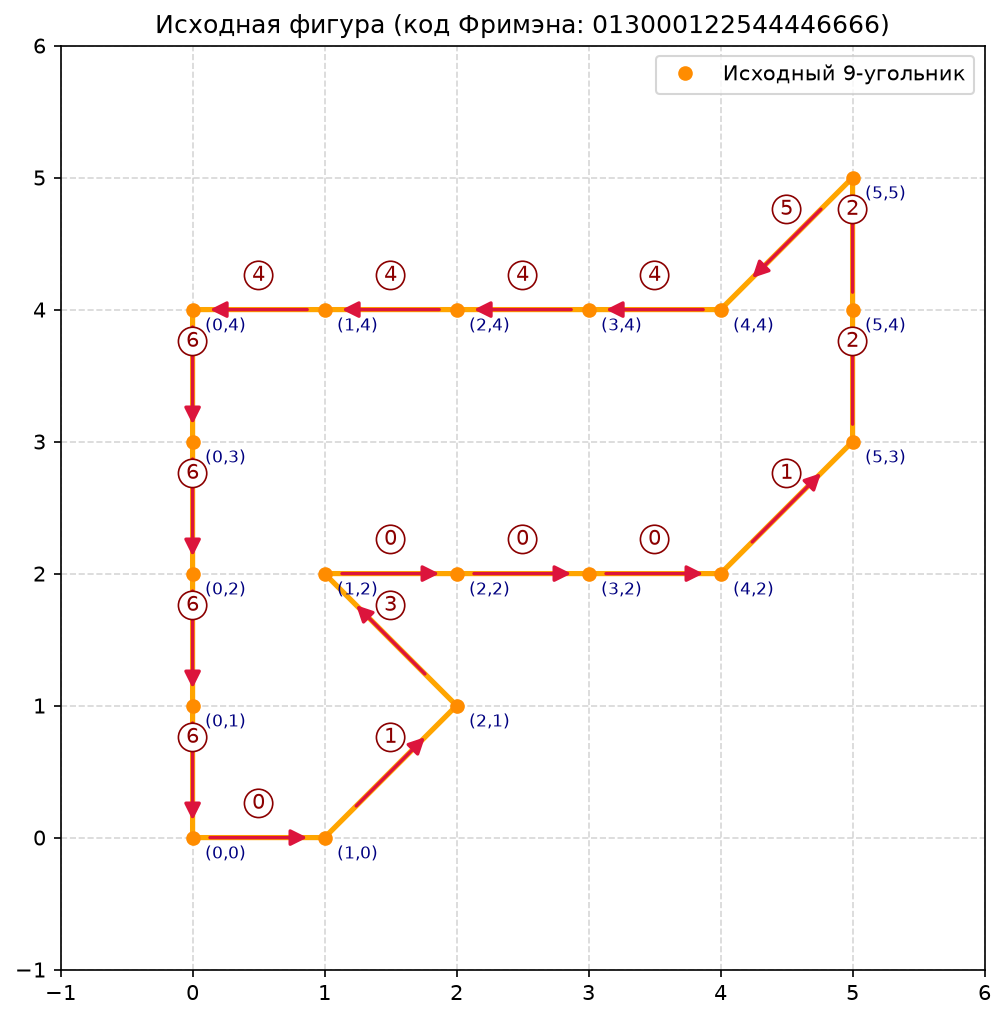
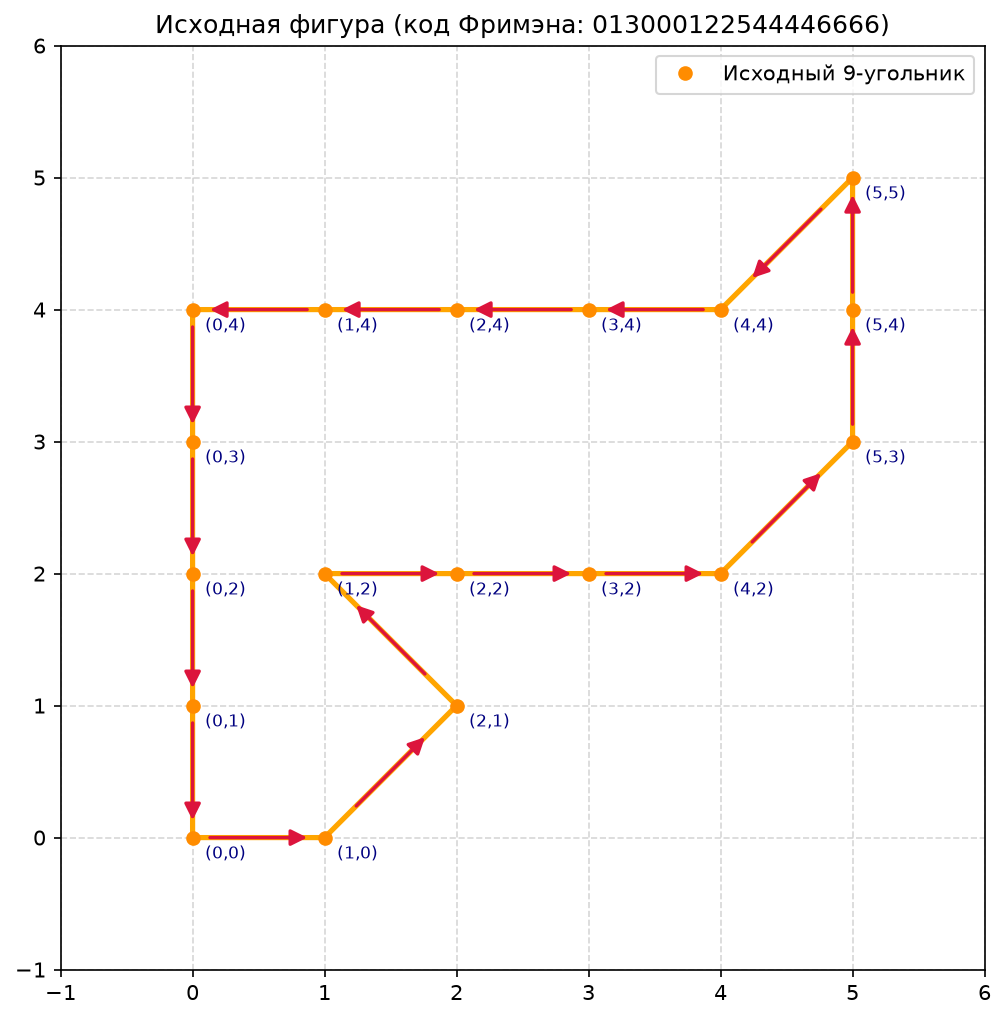
кандидат на финал

diff --git a/lab1/main.py b/lab1/main.py
@@ -7,26 +7,23 @@
 используя отражение относительно оси X. Показать преобразования
 пошагово и комплексно.
 
-=== ТЕОРИЯ (сжато) ===
-Код Фримэна. Примитив описывается цепочкой элементарных векторов по 8
-направлениям. Направление i = i*45°, i = 0..7. Длина вектора
-D = T*(sqrt(2))^p, p = i mod 2. При T=1 чётные направления дают
-(±1,0)/(0,±1), нечётные — (±1,±1).
+=== ТЕОРИЯ ===
+Код Фримэна: цепочка единичных векторов по 8 направлениям.
+Направление i = i*45°, i = 0..7. Длина D = T*(sqrt(2))^p, p = i mod 2.
+При T=1 чётные дают (±1,0)/(0,±1), нечётные — (±1,±1).
 
-Однородные координаты. Точка P(X, Y, W), W != 0. Декартовы:
-x = X/W, y = Y/W. При W=1: P(x, y, 1). Зачем: в декартовых 2x2 нельзя
-одной матрицей описать перенос, а в однородных 3x3 — можно.
+Однородные координаты: P(X, Y, W), W != 0. x = X/W, y = Y/W.
+При W=1: P(x, y, 1). Позволяют одной матрицей 3x3 описать все
+аффинные преобразования, включая перенос.
 
-Аффинное преобразование в однородных координатах: p' = M @ p,
-где M — матрица 3x3, p = [x, y, 1]^T.
+Аффинное преобразование: p' = M @ p, M — 3x3, p = [x, y, 1]^T.
 
-Композиция. Сначала M1, потом M2: p' = M2 @ M1 @ p. Порядок важен.
+Композиция: сначала M1, потом M2 → p' = M2 @ M1 @ p. Порядок важен.
 
-Смена системы координат. Чтобы выполнить операцию относительно
-произвольной точки/прямой, переходим в удобную систему (точка — начало,
-прямая — ось X), делаем простое преобразование, возвращаемся обратно.
-Именно так строятся rotation_about_point, scaling_about_point и
-reflection_about_line.
+Смена системы координат: чтобы выполнить операцию относительно
+произвольной точки/прямой, переходим в удобную систему, делаем
+простое преобразование, возвращаемся. Так строятся
+rotation_about_point, scaling_about_point, reflection_about_line.
 """
 
 import math
@@ -57,7 +54,8 @@ FREEMAN_STEPS = {
 
 
 def decode_freeman(code):
-    """Декодирует код Фримэна в список вершин (x, y) без дублирующей точки."""
+    """Декодирует код Фримэна в список вершин (x, y). Возвращает
+    список без дублирующей последней точки (замкнутый контур)."""
     x, y = 0, 0
     points = [(x, y)]
     for ch in code:
@@ -65,7 +63,7 @@ def decode_freeman(code):
         x += dx
         y += dy
         points.append((x, y))
-    return points[:-1]                         # убираем дубликат старта
+    return points[:-1]                          # убираем дубликат старта
 
 
 # =============================================================
@@ -73,7 +71,7 @@ def decode_freeman(code):
 # =============================================================
 
 def points_to_homogeneous(points):
-    """Превращает список (x, y) в Nx3 массив [[x, y, 1], ...]."""
+    """Список (x, y) → Nx3 массив [[x, y, 1], ...]."""
     return np.array([[x, y, 1.0] for (x, y) in points])
 
 
@@ -82,20 +80,20 @@ def apply_matrix(M, points):
     P = points_to_homogeneous(points)
     P_new = P @ M.T
     W = P_new[:, 2:3].copy()
-    W[W == 0] = 1.0                            # защита от деления на 0
+    W[W == 0] = 1.0                             # защита от деления на 0
     xy = P_new[:, :2] / W
     return [tuple(p) for p in xy]
 
 
 # =============================================================
-# ЧАСТЬ 3. ЭЛЕМЕНТАРНЫЕ АФФИННЫЕ ПРЕОБРАЗОВАНИЯ (2D)
+# ЧАСТЬ 3. ЭЛЕМЕНТАРНЫЕ АФФИННЫЕ ПРЕОБРАЗОВАНИЯ
 # =============================================================
 # Все матрицы выписаны вручную. Формат — вектор-столбец p = [x, y, 1]^T.
 
 def translation(tx, ty):
     """Перенос на (tx, ty).
-    | 1  0  tx |     Последовательные переносы аддитивны:
-    | 0  1  ty |     T(a) @ T(b) = T(a+b).
+    | 1  0  tx |  Последовательные переносы аддитивны:
+    | 0  1  ty |  T(a) @ T(b) = T(a+b).
     | 0  0   1 |"""
     return np.array([[1.0, 0.0, float(tx)],
                      [0.0, 1.0, float(ty)],
@@ -104,7 +102,7 @@ def translation(tx, ty):
 
 def scaling(sx, sy):
     """Масштабирование (sx, sy). При sx=sy — однородное.
-    | sx  0  0 |     Последовательные масштабирования мультипликативны.
+    | sx  0  0 |  Последовательные масштабирования мультипликативны.
     |  0 sy  0 |
     |  0  0  1 |"""
     return np.array([[float(sx), 0.0,       0.0],
@@ -113,9 +111,9 @@ def scaling(sx, sy):
 
 
 def rotation(theta):
-    """Поворот на theta (радианы, против часовой) вокруг начала координат.
-    | cos -sin  0 |   Отрицательный поворот — транспонированная матрица
-    | sin  cos  0 |   положительного. Два поворота аддитивны.
+    """Поворот на theta (радианы, против часовой) вокруг начала.
+    | cos -sin  0 |  Отрицательный поворот — транспонированная матрица
+    | sin  cos  0 |  положительного. Два поворота аддитивны.
     |  0    0   1 |"""
     c, s = math.cos(theta), math.sin(theta)
     return np.array([[c, -s, 0.0],
@@ -124,14 +122,14 @@ def rotation(theta):
 
 
 def reflection_x():
-    """Отражение относительно оси X (y → -y)."""
+    """Отражение относительно оси X."""
     return np.array([[1.0,  0.0, 0.0],
                      [0.0, -1.0, 0.0],
                      [0.0,  0.0, 1.0]])
 
 
 def reflection_y():
-    """Отражение относительно оси Y (x → -x)."""
+    """Отражение относительно оси Y."""
     return np.array([[-1.0, 0.0, 0.0],
                      [ 0.0, 1.0, 0.0],
                      [ 0.0, 0.0, 1.0]])
@@ -161,7 +159,7 @@ def reflection_y_eq_minus_x():
 # =============================================================
 # ЧАСТЬ 4. КОМПОЗИТНЫЕ ПРЕОБРАЗОВАНИЯ (СМЕНА СИСТЕМЫ КООРДИНАТ)
 # =============================================================
-# Идея: M = T(в удобную систему) @ (простое преобразование) @ T(обратно).
+# M = T(в удобную систему) @ (простое преобразование) @ T(обратно).
 
 def rotation_about_point(px, py, theta):
     """Поворот на theta вокруг точки (px, py):
@@ -176,13 +174,12 @@ def scaling_about_point(px, py, sx, sy):
 
 
 def reflection_about_line(k, b):
-    """Отражение относительно прямой y = k*x + b — 5 шагов из лекции:
-      1) T(0, -b)    — сдвиг прямой к началу координат по Y
-      2) R(-alpha)   — поворот, чтобы прямая совпала с осью X
-      3) Rx          — отражение относительно оси X
-      4) R(alpha)    — обратный поворот
-      5) T(0, b)     — обратный сдвиг
-    где alpha = atan(k)."""
+    """Отражение относительно y = kx + b — 5 шагов из лекции:
+      1) T(0, -b)   — сдвиг прямой к началу координат по Y
+      2) R(-alpha)  — поворот, чтобы прямая совпала с осью X
+      3) Rx         — отражение относительно оси X
+      4) R(alpha)   — обратный поворот
+      5) T(0, b)    — обратный сдвиг, alpha = atan(k)."""
     alpha = math.atan(k)
     return (translation(0, b) @ rotation(alpha) @ reflection_x()
             @ rotation(-alpha) @ translation(0, -b))
@@ -193,11 +190,18 @@ def reflection_about_line(k, b):
 # =============================================================
 
 def compute_bounds(polygons, pad=1.5):
-    """Габариты по всем полигонам: (x_lo, x_hi, y_lo, y_hi).
-    Используется, чтобы задать xlim/ylim и обрезать прямую по краям."""
+    """Габариты по всем полигонам: (x_lo, x_hi, y_lo, y_hi)."""
     xs = [p[0] for poly in polygons for p in poly]
     ys = [p[1] for poly in polygons for p in poly]
     return (min(xs) - pad, max(xs) + pad, min(ys) - pad, max(ys) + pad)
+
+
+def set_unit_grid(ax):
+    """Ставит деления каждые 1 единицу (масштаб клетки = 1)."""
+    x_lo, x_hi = ax.get_xlim()
+    y_lo, y_hi = ax.get_ylim()
+    ax.set_xticks(range(int(math.floor(x_lo)), int(math.ceil(x_hi)) + 1))
+    ax.set_yticks(range(int(math.floor(y_lo)), int(math.ceil(y_hi)) + 1))
 
 
 def plot_polygon(ax, points, label, color, linestyle='-'):
@@ -209,8 +213,7 @@ def plot_polygon(ax, points, label, color, linestyle='-'):
 
 
 def draw_freeman(ax, points, code):
-    """Рисует исходную фигуру в стиле образца: жирный оранжевый контур,
-    стрелки на середине каждого ребра, цифры кода и координаты вершин."""
+    """Рисует исходную фигуру со стрелками по рёбрам и координатами вершин."""
     n = len(points)
     xs = [p[0] for p in points] + [points[0][0]]
     ys = [p[1] for p in points] + [points[0][1]]
@@ -219,7 +222,7 @@ def draw_freeman(ax, points, code):
             'o', color='darkorange', markersize=6, zorder=3,
             label='Исходный 9-угольник')
 
-    # Стрелки на середине каждого ребра — по направлению обхода
+    # Стрелки в середине каждого ребра
     for i in range(n):
         x1, y1 = points[i]
         x2, y2 = points[(i + 1) % n]
@@ -236,46 +239,34 @@ def draw_freeman(ax, points, code):
                                     lw=1.6, mutation_scale=16),
                     zorder=4)
 
-    # Цифры кода рядом с серединой каждого ребра
-    for i, ch in enumerate(code):
-        x1, y1 = points[i]
-        x2, y2 = points[(i + 1) % n]
-        mx, my = (x1 + x2) / 2, (y1 + y2) / 2
-        ax.text(mx, my + 0.18, ch, fontsize=10, color='darkred',
-                ha='center', va='bottom', zorder=5,
-                bbox=dict(boxstyle='circle,pad=0.18',
-                          facecolor='white', edgecolor='darkred', lw=0.8))
-
-    # Координаты вершин
+    # Подписи координат вершин
     for (x, y) in points:
         ax.annotate(f'({int(x)},{int(y)})', (x, y),
                     textcoords='offset points', xytext=(6, -10),
                     fontsize=8, color='navy')
 
-    # Габариты исходной фигуры + отступ
     x_lo, x_hi, y_lo, y_hi = compute_bounds([points], pad=1.0)
     ax.set_xlim(x_lo, x_hi)
     ax.set_ylim(y_lo, y_hi)
+    set_unit_grid(ax)
     ax.grid(True, linestyle='--', alpha=0.5)
     ax.set_aspect('equal')
     ax.set_title(f"Исходная фигура (код Фримэна: {code})")
     ax.legend(loc='upper right')
 
 
-def draw_line_y_eq_kx_b(ax, k, b, label=None):
-    """Рисует прямую y = kx + b по текущим границам осей.
-    Т.к. xlim/ylim уже заданы, отрезок прямой автоматически обрежется
-    matplotlib'ом по краям области — не нужно считать диапазон самим."""
+def draw_line_y_eq_kx_b(ax, k, b):
+    """Прямая y = kx + b по текущим границам осей. matplotlib сам
+    обрежет её по краям — xlim/ylim уже должны быть заданы."""
     x_lo, x_hi = ax.get_xlim()
     ax.plot([x_lo, x_hi],
             [k * x_lo + b, k * x_hi + b],
             '--', color='magenta', linewidth=1.5,
-            label=label or f'y = {k}x + {b}',
-            zorder=1)
+            label=f'y = {k}x + {b}', zorder=1)
 
 
 def matrix_to_text(name, M):
-    """Красивая текстовая запись матрицы 3x3 для вывода на графике."""
+    """Текстовая запись матрицы 3x3 для вывода на графике."""
     lines = [name + " ="]
     for row in M:
         lines.append("[ " + "  ".join(f"{v:8.4f}" for v in row) + " ]")
@@ -288,7 +279,7 @@ def matrix_to_text(name, M):
 
 def process_figure(fig_name, code, output_dir, ty=5, k=3, b=10):
     """Строит 3 картинки для одной фигуры и сохраняет их в output_dir."""
-    # 1) Декодируем исходные вершины
+    # 1) Декодируем вершины
     points = decode_freeman(code)
 
     # 2) Строим нужные матрицы
@@ -303,73 +294,66 @@ def process_figure(fig_name, code, output_dir, ty=5, k=3, b=10):
     R_pos  = rotation(math.atan(k))
     T_posb = translation(0, b)
 
-    # 3) Пошаговые результаты
-    p1 = apply_matrix(T_y,    points)           # после переноса
-    p2 = apply_matrix(T_negb, p1)               # шаг 1
-    p3 = apply_matrix(R_neg,  p2)               # шаг 2
-    p4 = apply_matrix(Rx,     p3)               # шаг 3
-    p5 = apply_matrix(R_pos,  p4)               # шаг 4
-    p6 = apply_matrix(T_posb, p5)               # шаг 5 — итог отражения
-    p_comb = apply_matrix(M_comb, points)       # комплексный итог
+    # 3) Цепочка состояний S0 → S1 → ... → S6
+    S0 = points
+    S1 = apply_matrix(T_y,    S0)               # после переноса
+    S2 = apply_matrix(T_negb, S1)               # шаг 1
+    S3 = apply_matrix(R_neg,  S2)               # шаг 2
+    S4 = apply_matrix(Rx,     S3)               # шаг 3
+    S5 = apply_matrix(R_pos,  S4)               # шаг 4
+    S6 = apply_matrix(T_posb, S5)               # шаг 5 — итог отражения
+    S_comb = apply_matrix(M_comb, S0)           # комплексный итог
 
-    # -------- КАРТИНКА 1: исходная фигура с кодом Фримэна --------
+    # -------- КАРТИНКА 1: исходная фигура --------
     fig1, ax1 = plt.subplots(figsize=(8, 8))
     draw_freeman(ax1, points, code)
     fig1.savefig(os.path.join(output_dir, f"{fig_name}_1_original.png"),
                  dpi=150, bbox_inches='tight')
     plt.close(fig1)
 
-    # -------- КАРТИНКА 2: все шаги вместе + прямая --------
-    # ВАЖНО: это ПОШАГОВЫЙ рисунок. Комплексного итога здесь НЕТ.
-    fig2, ax2 = plt.subplots(figsize=(10, 10))
-    plot_polygon(ax2, points, "Исходный",                   'black')
-    plot_polygon(ax2, p1,     f"После переноса T(0,{ty})",  'green')
-    plot_polygon(ax2, p2,     f"Шаг 1: T(0,{-b})",          'olive')
-    plot_polygon(ax2, p3,     "Шаг 2: R(-alpha)",           'orange')
-    plot_polygon(ax2, p4,     "Шаг 3: Rx",                  'red')
-    plot_polygon(ax2, p5,     "Шаг 4: R(alpha)",            'purple')
-    plot_polygon(ax2, p6,     f"Шаг 5: T(0,{b})",           'brown')
+    # -------- КАРТИНКА 2: ПОШАГОВО (только цепочка S0…S6) --------
+    fig2, ax2 = plt.subplots(figsize=(11, 10))
+    plot_polygon(ax2, S0, "S0 — исходный 9-угольник", 'black')
+    plot_polygon(ax2, S1, f"S1 = T(0,{ty})·S0 — перенос вверх на {ty}", 'green')
+    plot_polygon(ax2, S2, f"S2 = T(0,{-b})·S1 — сдвиг прямой y={k}x+{b} к началу координат", 'olive')
+    plot_polygon(ax2, S3, "S3 = R(−α)·S2 — поворот, совмещающий прямую с осью X", 'orange')
+    plot_polygon(ax2, S4, "S4 = Rx·S3 — отражение относительно оси X", 'red')
+    plot_polygon(ax2, S5, "S5 = R(α)·S4 — обратный поворот на α", 'purple')
+    plot_polygon(ax2, S6, f"S6 = T(0,{b})·S5 — возврат прямой на место (итог отражения)", 'brown')
 
-    # Границы по всем полигонам + запас, чтобы прямая была видна рядом
     x_lo, x_hi, y_lo, y_hi = compute_bounds(
-        [points, p1, p2, p3, p4, p5, p6], pad=1.5
+        [S0, S1, S2, S3, S4, S5, S6], pad=1.5
     )
     ax2.set_xlim(x_lo, x_hi)
     ax2.set_ylim(y_lo, y_hi)
-
-    # Прямая — рисуется поверх заданных границ и обрезается автоматически
+    set_unit_grid(ax2)
     draw_line_y_eq_kx_b(ax2, k, b)
 
     ax2.grid(True, linestyle='--', alpha=0.5)
     ax2.set_aspect('equal')
     ax2.set_title(f"Пошаговое преобразование: {fig_name}\n"
                   f"(перенос по Y на {ty}, отражение отн. y = {k}x + {b})")
-    # Легенда — снаружи осей, чтобы не закрывать полигоны
     ax2.legend(loc='upper left', bbox_to_anchor=(1.02, 1.0), fontsize=9)
     fig2.savefig(os.path.join(output_dir, f"{fig_name}_2_steps.png"),
                  dpi=150, bbox_inches='tight')
     plt.close(fig2)
 
-    # -------- КАРТИНКА 3: комплексное преобразование + прямая --------
-    fig3, ax3 = plt.subplots(figsize=(9, 9))
-    plot_polygon(ax3, points, "Исходный",                   'black')
-    plot_polygon(ax3, p_comb, "Комплексное преобразование",  'blue')
+    # -------- КАРТИНКА 3: КОМПЛЕКСНО (одна матрица) --------
+    fig3, ax3 = plt.subplots(figsize=(10, 9))
+    plot_polygon(ax3, S0,     "Исходный 9-угольник",     'black')
+    plot_polygon(ax3, S_comb, "M_combined·S0 — результат комплексного преобразования", 'blue')
 
-    x_lo, x_hi, y_lo, y_hi = compute_bounds(
-        [points, p_comb], pad=1.5
-    )
+    x_lo, x_hi, y_lo, y_hi = compute_bounds([S0, S_comb], pad=1.5)
     ax3.set_xlim(x_lo, x_hi)
     ax3.set_ylim(y_lo, y_hi)
-
+    set_unit_grid(ax3)
     draw_line_y_eq_kx_b(ax3, k, b)
 
     ax3.grid(True, linestyle='--', alpha=0.5)
     ax3.set_aspect('equal')
     ax3.set_title(f"Комплексное преобразование: {fig_name}\n"
                   f"M_combined = M_reflect @ T(0,{ty})")
-    # Легенда — снаружи осей
     ax3.legend(loc='upper left', bbox_to_anchor=(1.02, 1.0), fontsize=9)
-    # Матрица — в правом нижнем углу осей, чтобы не налезала на фигуры
     ax3.text(0.98, 0.02, matrix_to_text("M_combined", M_comb),
              transform=ax3.transAxes, va='bottom', ha='right',
              family='monospace', fontsize=8,
@@ -387,11 +371,10 @@ if __name__ == "__main__":
     output_dir = "results"
     os.makedirs(output_dir, exist_ok=True)
 
-    # Три невыпуклых 9-угольника: разные формы и масштабы.
     figures = [
-        ("figure1", "0072241446366"),              
-        ("figure2", "717131454447"),        
-        ("figure3", "013000122544446666"),      
+        ("figure1", "0072241446366"),
+        ("figure2", "717131454447"),
+        ("figure3", "013000122544446666"),
     ]
 
     for fig_name, code in figures:
